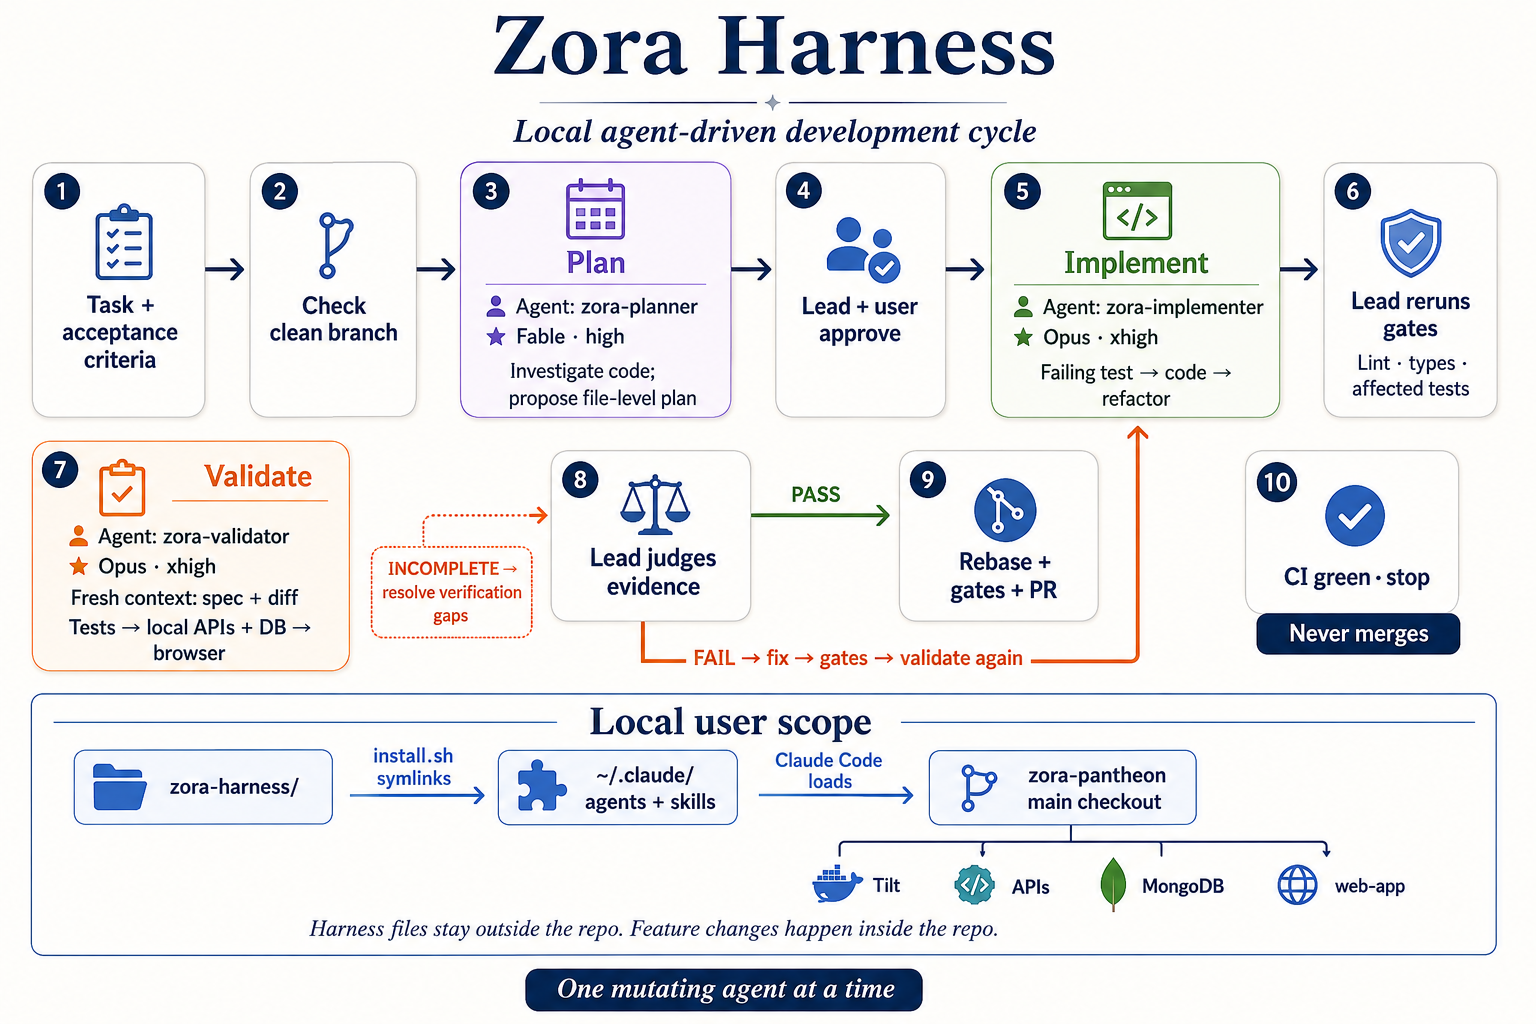
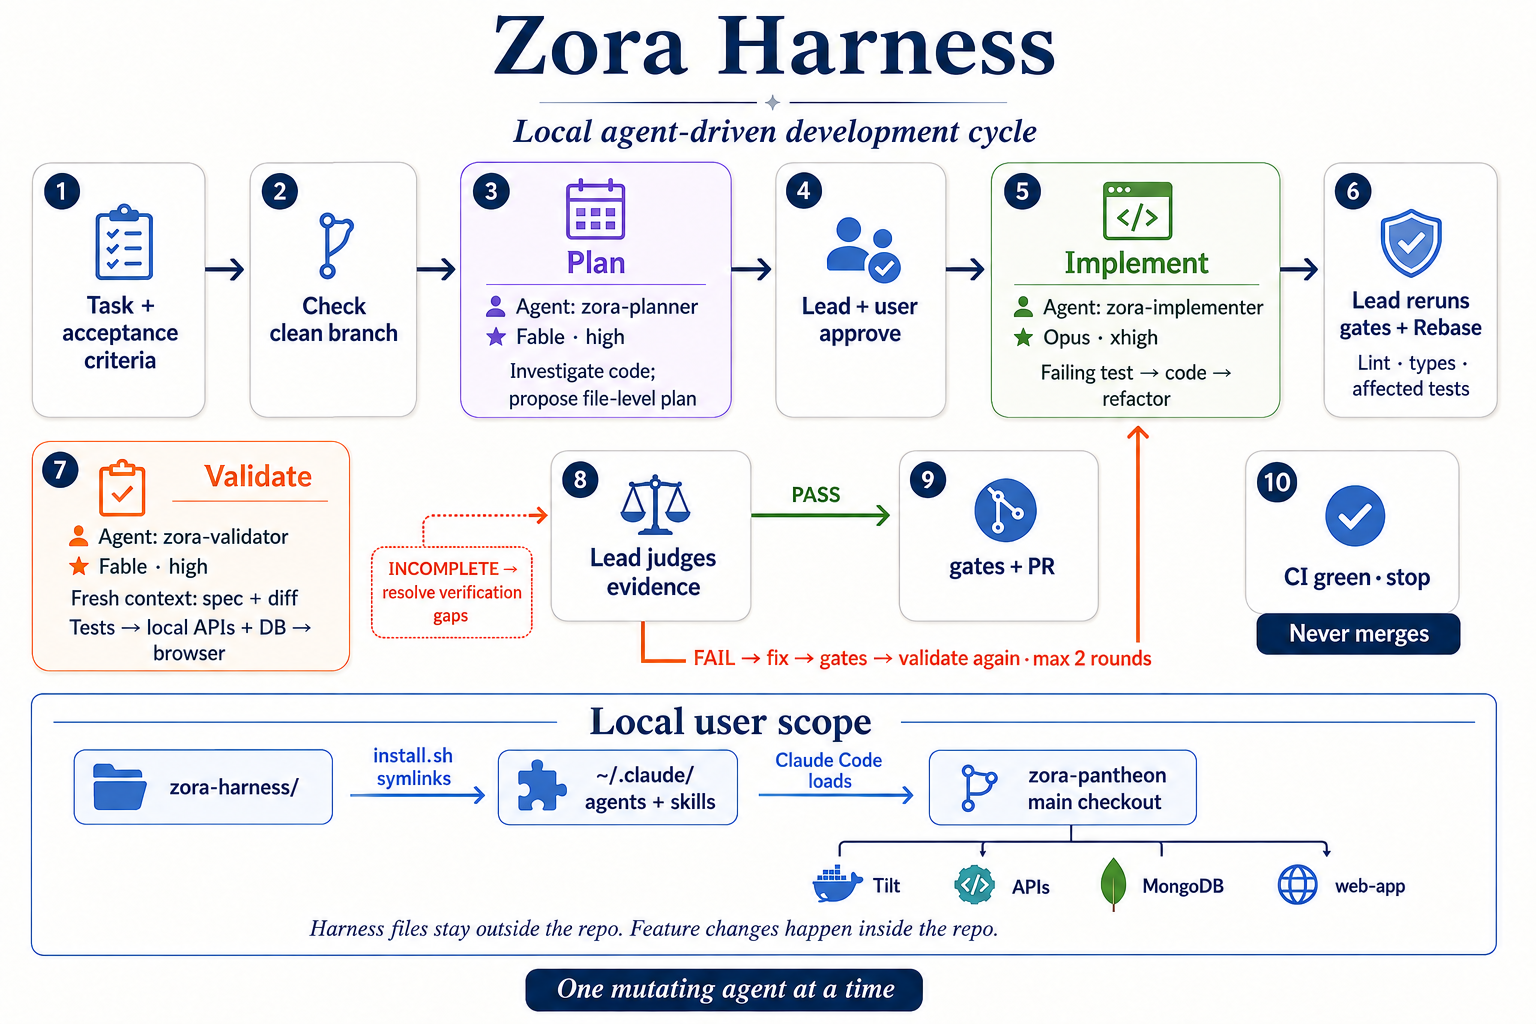
docs: update the cycle diagram to the current flow
The validator is on Fable, rebase moves into the lead's gate step before
validation, and the FAIL loop is capped at two rounds. The README's image
description follows the new picture.

diff --git a/README.md b/README.md
@@ -3,7 +3,7 @@
 A personal plan → implement → validate agent harness for the `zora-pantheon`
 monorepo.
 
-![The ten steps of the zora-harness cycle: task and acceptance criteria, clean-branch check, plan (zora-planner on Fable), lead and user approval, implement (zora-implementer on Opus, test-first), lead reruns the gates, validate (zora-validator on Fable with fresh context — tests, then local APIs and database, then browser), lead judges the evidence, rebase and open a PR, stop at green CI. FAIL loops back to implement; INCOMPLETE returns to validation. Below, the local user scope: zora-harness/ is symlinked by install.sh into ~/.claude/agents and skills, which Claude Code loads against the zora-pantheon main checkout served by Tilt, the service APIs, MongoDB and the web-app.](docs/zora-harness.png)
+![The ten steps of the zora-harness cycle: task and acceptance criteria, clean-branch check, plan (zora-planner on Fable), lead and user approval, implement (zora-implementer on Opus, test-first), lead reruns the gates and rebases, validate (zora-validator on Fable with fresh context — tests, then local APIs and database, then browser), lead judges the evidence, gates and open a PR, stop at green CI without merging. FAIL loops back to implement, at most two rounds; INCOMPLETE returns to validation. Below, the local user scope: zora-harness/ is symlinked by install.sh into ~/.claude/agents and skills, which Claude Code loads against the zora-pantheon main checkout served by Tilt, the service APIs, MongoDB and the web-app.](docs/zora-harness.png)
 
 The real files live here, outside the repo. `install.sh` symlinks them into
 `~/.claude/`, which Claude Code reads from **any** working directory — so the
